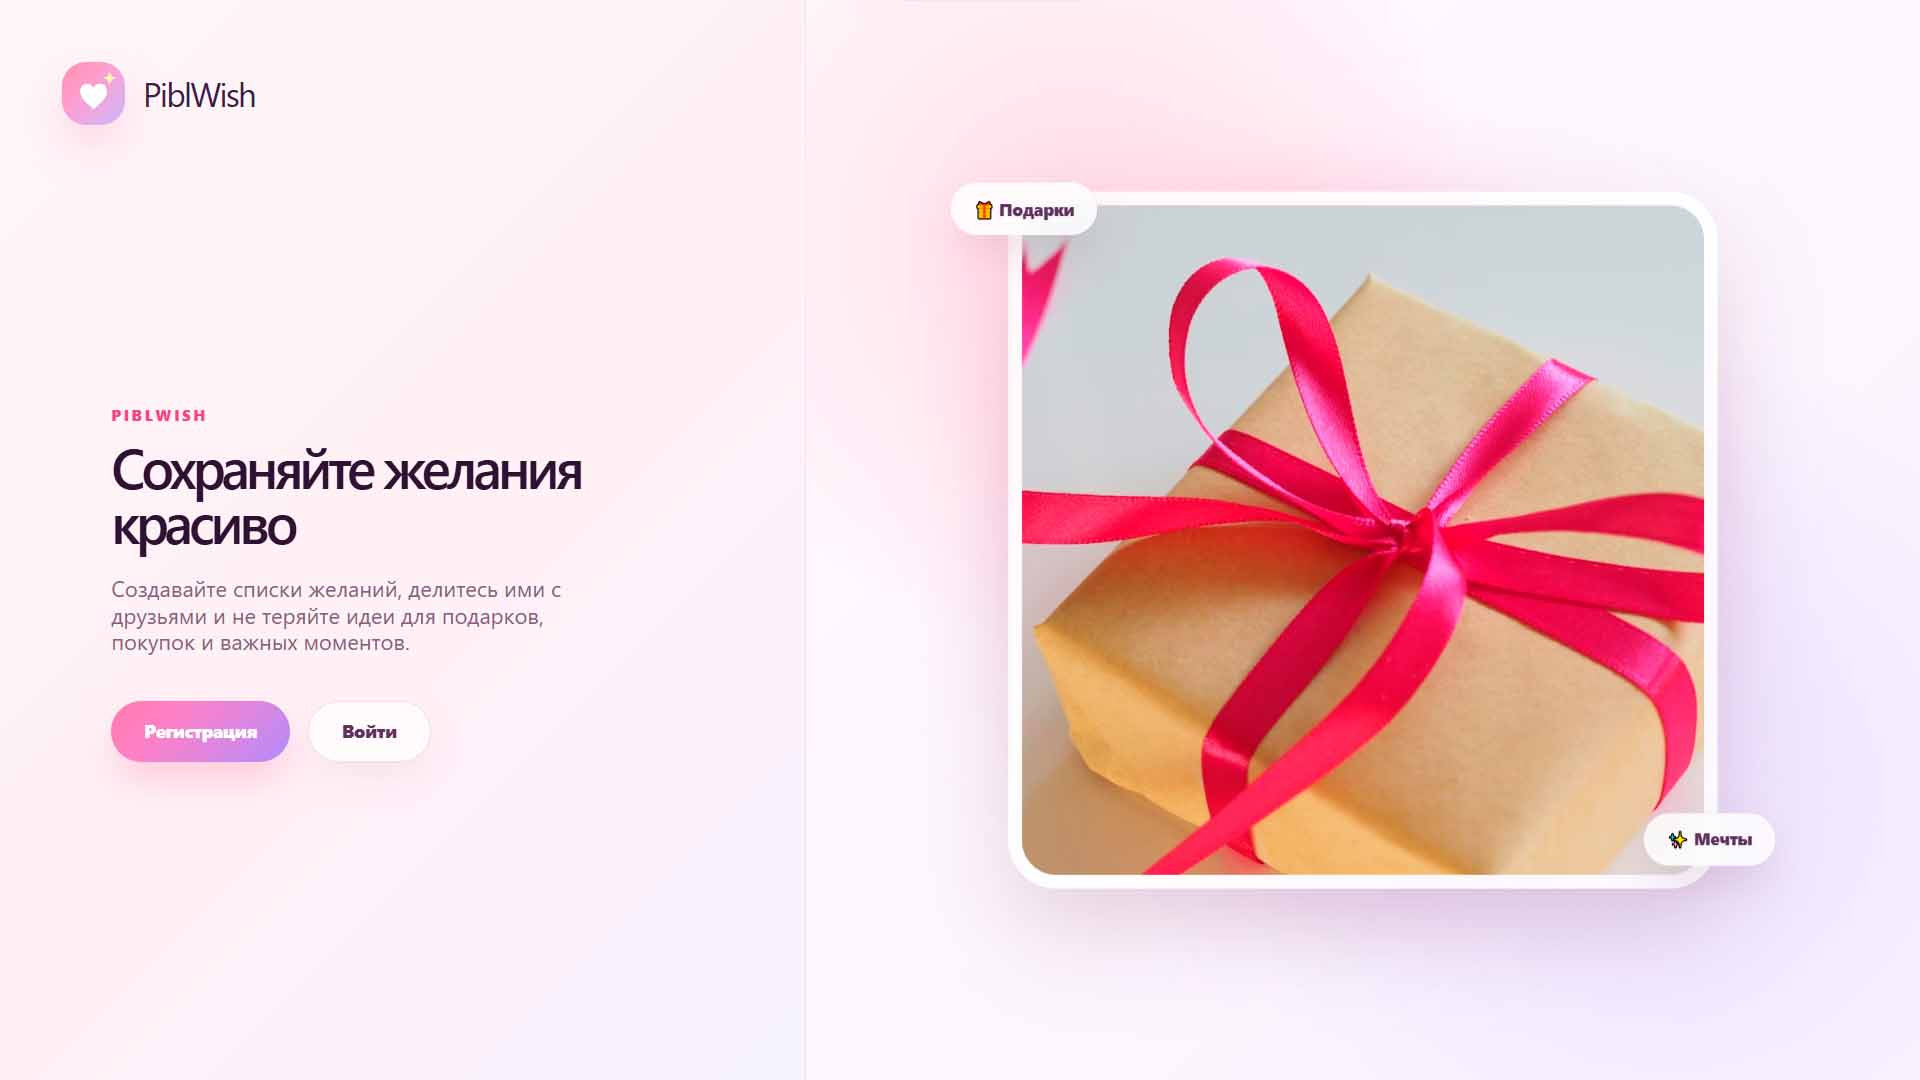
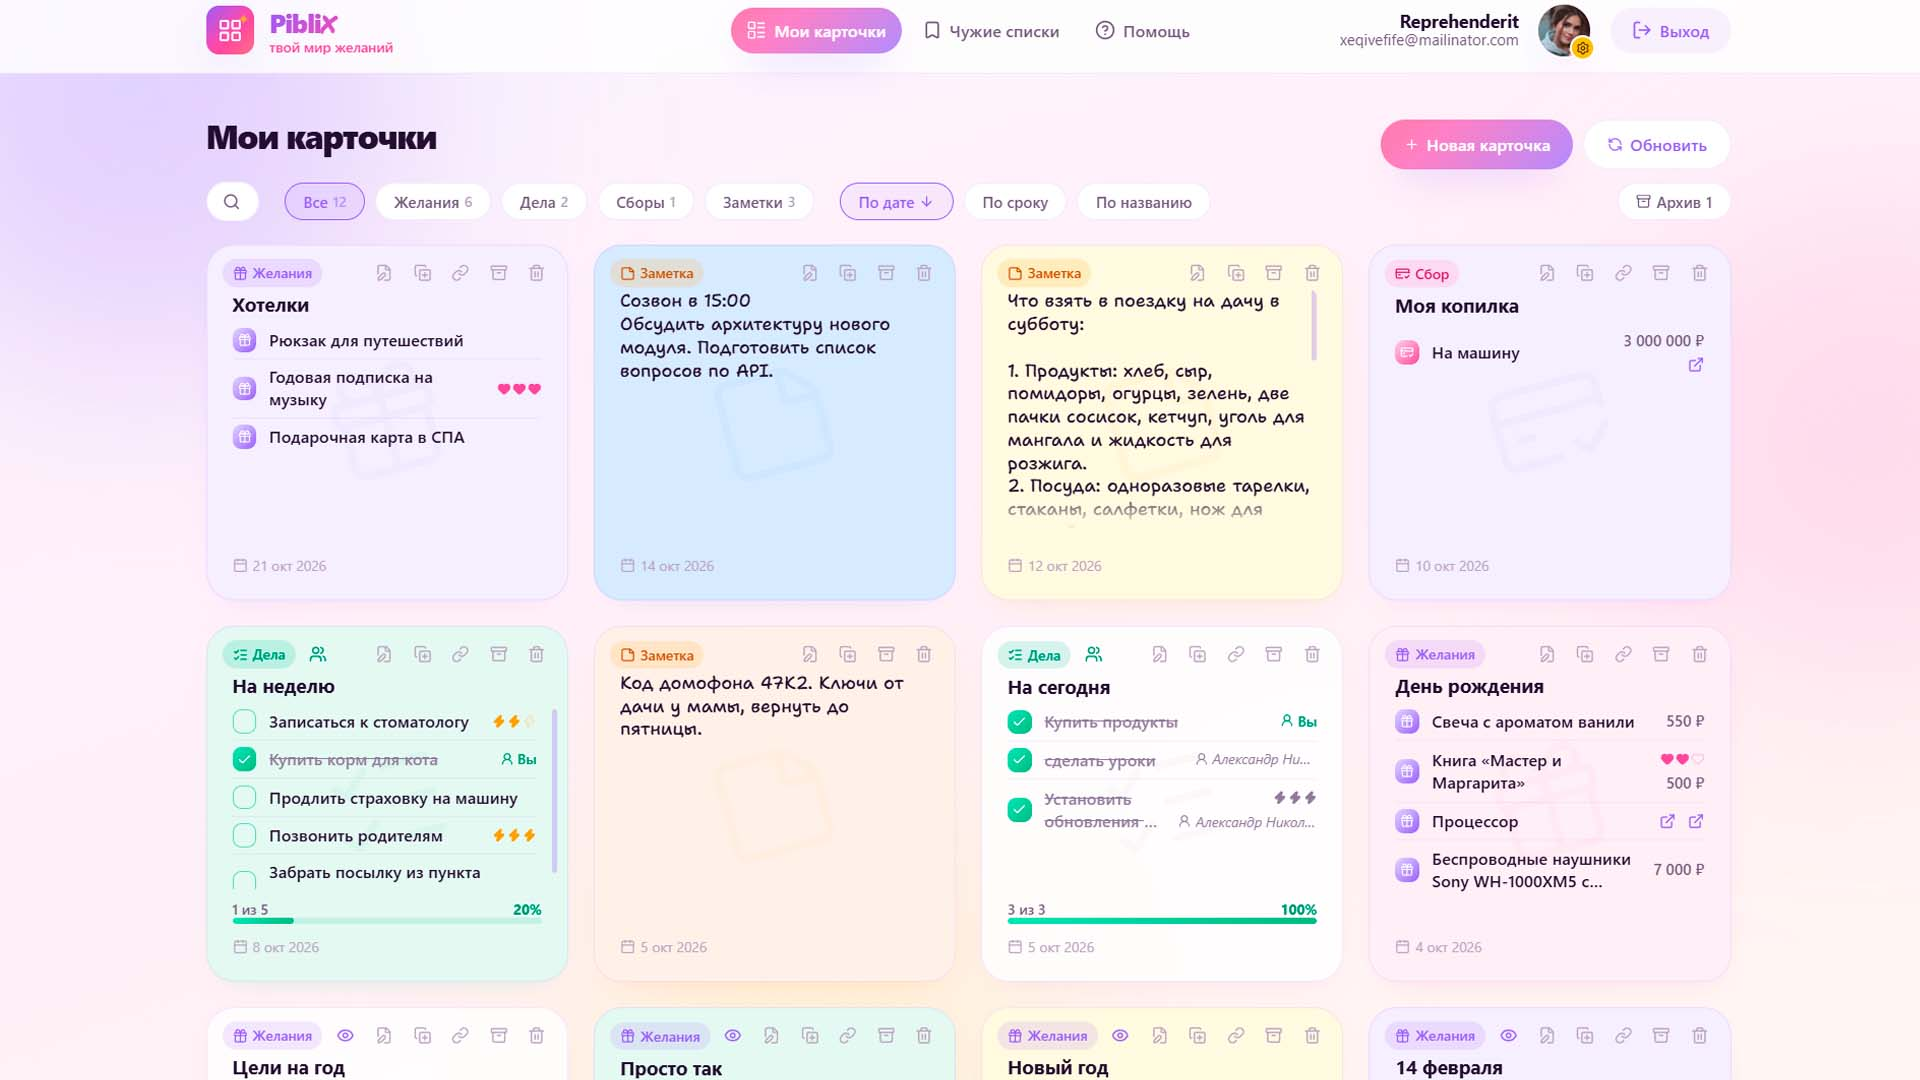
refac: update projects T: 21-10-2026 14:17

diff --git a/src/constants/components.ts b/src/constants/components.ts
@@ -31,12 +31,50 @@ export const SKILLS = [
   'WordPress',
   'Joomla',
   'Docker',
+  'Python',
   'Eslint',
   'Prettier',
   'Husky',
 ];
 
 export const PROJECTS_DATA: IProjectData[] = [
+  {
+    id: 15,
+    name: { ru: 'Проект 15', en: 'Project 15' },
+    imgSrc: 'assets/img/projects/project_15.jpg',
+    description: {
+      ru: 'Цифровая платформа для прямого взаимодействия между избирателями и представителями власти. Разработан в команде.',
+      en: 'A digital platform for direct interaction between voters and government representatives. Developed by a team.',
+    },
+    stack: [
+      'NestJS',
+      'React',
+      'TypeScript',
+      'PostgreSQL',
+      'Tailwind',
+      'JWT auth',
+      'Prisma',
+      'Docker',
+    ],
+    links: {
+      github: 'https://github.com/viksiko/monitorium',
+      sait: 'https://monitorium.p0lluxstar.ru/',
+    },
+  },
+  {
+    id: 16,
+    name: { ru: 'Проект 16', en: 'Project 16' },
+    imgSrc: 'assets/img/projects/project_16.jpg',
+    description: {
+      ru: 'Full-stack приложение с авторизацией для ведения списков желаний, списков дел, заметок и сборов. Позволяет делиться целями с друзьями и совместно собирать средства на покупки и подарки.',
+      en: 'A full-stack application with authorization for managing wish lists, to-do lists, notes, and collections. Allows you to share goals with friends and collectively raise funds for purchases and gifts.',
+    },
+    stack: ['PHP', 'Laravel', 'Claude', 'Vue', 'MySQL', 'SASS'],
+    links: {
+      github: 'https://github.com/p0lluxstar/piblwish',
+      sait: 'https://piblwish.p0lluxstar.ru/',
+    },
+  },
   {
     id: 13,
     name: { ru: 'Проект 13', en: 'Project 13' },
@@ -59,29 +97,7 @@ export const PROJECTS_DATA: IProjectData[] = [
       sait: 'https://mstore.p0lluxstar.ru/',
     },
   },
-  {
-    id: 15,
-    name: { ru: 'Проект 15', en: 'Project 15' },
-    imgSrc: 'assets/img/projects/project_15.jpg',
-    description: {
-      ru: 'Цифровая платформа для прямого взаимодействия между избирателями и представителями власти.',
-      en: 'A digital platform for direct interaction between voters and government representatives.',
-    },
-    stack: [
-      'NestJS',
-      'React',
-      'TypeScript',
-      'PostgreSQL',
-      'Tailwind',
-      'JWT auth',
-      'Prisma',
-      'Docker',
-    ],
-    links: {
-      github: 'https://github.com/viksiko/monitorium',
-      sait: 'http://178.207.9.52:64080/',
-    },
-  },
+
   {
     id: 1,
     name: { ru: 'Проект 1', en: 'Project 1' },
@@ -110,8 +126,8 @@ export const PROJECTS_DATA: IProjectData[] = [
     name: { ru: 'Проект 2', en: 'Project 2' },
     imgSrc: 'assets/img/projects/project_2.jpg',
     description: {
-      ru: 'Full-Stack приложение для обмена сообщениями в реальном времени с регистрацией.',
-      en: 'A full-stack application for real-time messaging with registration.',
+      ru: 'Full-Stack приложение для обмена сообщениями в реальном времени с базовой регистрацией.',
+      en: 'A full-stack application for real-time messaging with basic registration.',
     },
     stack: [
       'Vite',
@@ -135,8 +151,8 @@ export const PROJECTS_DATA: IProjectData[] = [
     name: { ru: 'Проект 5', en: 'Project 5' },
     imgSrc: 'assets/img/projects/project_5.jpg',
     description: {
-      ru: 'Full-stack приложение для мониторинга температуры и влажности в помещении с использованием датчика (DHT11/DHT22) и микроконтроллера ESP32.',
-      en: 'A full-stack application designed to monitor indoor temperature and humidity using a sensor (DHT11/DHT22) and an ESP32 microcontroller.',
+      ru: 'Приложение для мониторинга температуры и влажности в помещении с использованием датчика (DHT11/DHT22) и микроконтроллера ESP32.',
+      en: 'Application designed to monitor indoor temperature and humidity using a sensor (DHT11/DHT22) and an ESP32 microcontroller.',
     },
     stack: [
       'Python',
@@ -177,6 +193,19 @@ export const PROJECTS_DATA: IProjectData[] = [
     },
   },
   {
+    id: 17,
+    name: { ru: 'Проект 17', en: 'Project 17' },
+    imgSrc: 'assets/img/projects/project_17.jpg',
+    description: {
+      ru: 'Прототип советчика для оператора производства дизельного топлива. Разработан в команде в рамках хакатона «Hефтекод 2026».',
+      en: 'A prototype advisor for a diesel fuel production operator. Developed by a team as part of the “Neftcode 2026” hackathon.',
+    },
+    stack: ['Python', 'FastAPI', 'Cursor', 'Docker Images'],
+    links: {
+      github: 'https://github.com/EGSP/hackneft',
+    },
+  },
+  {
     id: 4,
     name: { ru: 'Проект 4', en: 'Project 4' },
     imgSrc: 'assets/img/projects/project_4.jpg',
@@ -189,34 +218,8 @@ export const PROJECTS_DATA: IProjectData[] = [
       github: 'https://github.com/p0lluxstar/ramapi',
       sait: 'https://ramapi.vercel.app/',
     },
+    vpn: true,
   },
-  {
-    id: 16,
-    name: { ru: 'Проект 16', en: 'Project 16' },
-    imgSrc: 'assets/img/projects/project_16.jpg',
-    description: {
-      ru: 'Full-stack приложение с аутентификацией пользователей, позволяющее управлять персональным списком желаний.',
-      en: 'A full-stack application with user authentication that allows you to manage your personal wish list.',
-    },
-    stack: ['PHP', 'Laravel', 'Vue', 'MySQL', 'HTML', 'SASS'],
-    links: {
-      github: 'https://github.com/p0lluxstar/piblwish',
-    },
-  },
-  {
-    id: 7,
-    name: { ru: 'Проект 7', en: 'Project 7' },
-    imgSrc: 'assets/img/projects/project_7.jpg',
-    description: {
-      ru: 'REST API сервис для управления обращениями пользователей. Только backend часть.',
-      en: 'The REST API is a service for managing user requests. Only the backend part.',
-    },
-    stack: ['Node.js', 'TypeScript', 'Express', 'SQLite', 'Prisma'],
-    links: {
-      github: 'https://github.com/p0lluxstar/request-processing-system',
-    },
-  },
-
   {
     id: 14,
     name: { ru: 'Проект 14', en: 'Project 14' },
@@ -242,7 +245,7 @@ export const PROJECTS_DATA: IProjectData[] = [
     stack: ['JavaScript', 'HTML', 'CSS'],
     links: {
       github: 'https://github.com/p0lluxstar/roguelike',
-      sait: 'https://roguelike-p0lluxstar.netlify.app/',
+      sait: 'https://roguelike.p0lluxstar.ru/',
     },
   },
   {
@@ -257,7 +260,7 @@ export const PROJECTS_DATA: IProjectData[] = [
     links: {
       github:
         'https://github.com/rolling-scopes-school/p0lluxstar-JSFE2023Q1/tree/minesweeper',
-      sait: 'https://minesweeper-p0lluxstar.netlify.app/',
+      sait: 'https://minesweeper.p0lluxstar.ru/',
     },
   },
   // {

diff --git a/src/components/Logo/index.module.scss b/src/components/Logo/index.module.scss
@@ -1,4 +1,5 @@
 @use '../../styles/mixins' as mixins;
+@use '../../styles/media' as media;
 
 .logoWrapper {
   display: flex;
@@ -10,6 +11,9 @@
     border-radius: 50px;
     overflow: hidden;
     margin-right: 1rem;
+    @include media.mobile400 {
+      margin-right: 0.5rem;
+    }
 
     .logoImg {
       width: 100%;
@@ -23,6 +27,9 @@
 
 .link {
   @include mixins.link;
-  padding: 0 0 0.1em 0;
-    position: relative;
+  @include media.mobile400 {
+    font-size: 20px;
+  }
+  padding: 0 0 5px 0;
+  position: relative;
 }

diff --git a/src/components/Project/index.tsx b/src/components/Project/index.tsx
@@ -50,7 +50,8 @@ export default function ProjectTest({ props }: ProjectProps): JSX.Element {
                   rel="noopener noreferrer"
                   className={`${styles.link} ${styles.linkIcon}`}
                 >
-                  <i aria-hidden="true" className="fa fa fa-external-link"></i>
+                  <i aria-hidden="true" className="fa fa-external-link"></i>
+                  {props.vpn && <span className={styles.vpnBadge}>VPN</span>}
                 </a>
               )}
             </div>

diff --git a/src/styles/_media.scss b/src/styles/_media.scss
@@ -1,5 +1,6 @@
-$mobile: 640px;
+$mobile: 800px;
 $mobile700: 700px;
+$mobile400: 400px;
 
 @mixin mobile {
   @media (max-width: #{$mobile}) {
@@ -9,6 +10,12 @@ $mobile700: 700px;
 
 @mixin mobile700 {
   @media (max-width: #{$mobile700}) {
+    @content;
+  }
+}
+
+@mixin mobile400 {
+  @media (max-width: #{$mobile400}) {
     @content;
   }
 }

diff --git a/src/components/Footer/index.tsx b/src/components/Footer/index.tsx
@@ -8,7 +8,7 @@ export default function Footer(): JSX.Element {
         target="blank"
         className={`${styles.link} ${styles.footerLink}`}
       >
-        {new Date().getFullYear()} AE
+        {new Date().getFullYear()} @p0lluxstar
       </a>
     </footer>
   );

diff --git a/src/components/Logo/index.tsx b/src/components/Logo/index.tsx
@@ -9,7 +9,7 @@ export default function Logo(): JSX.Element {
       </div>
       <h3>
         <a href={URL_GITHUB} target="blank" className={styles.link}>
-          АE
+          @p0lluxstar
         </a>
       </h3>
     </div>

diff --git a/src/components/Project/index.module.scss b/src/components/Project/index.module.scss
@@ -128,3 +128,8 @@
   font-weight: 700;
   font-size: 5cqw;
 }
+
+.vpnBadge {
+  font-size: 10px;
+  font-weight: 700;
+}

diff --git a/src/types/interfaces.ts b/src/types/interfaces.ts
@@ -8,4 +8,5 @@ export interface IProjectData {
     github?: string;
     sait?: string;
   };
+  vpn?: boolean;
 }
